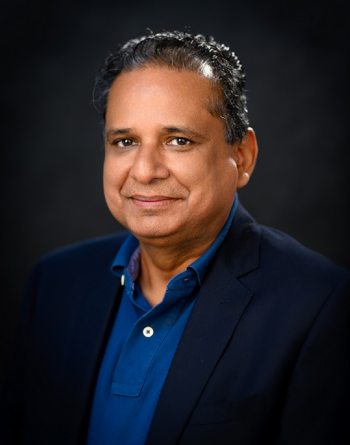
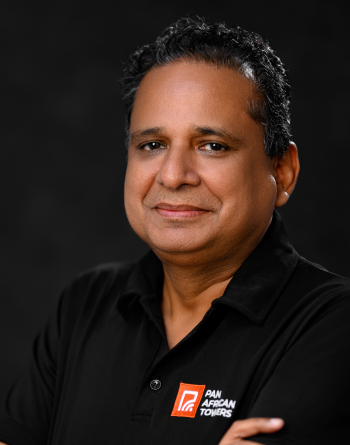
update: changed team images

diff --git a/src/Pages/About/matrix/WhoAreWe.tsx b/src/Pages/About/matrix/WhoAreWe.tsx
@@ -24,6 +24,8 @@ import daniel from "../../../assets/WhoAreWe/teams/daniel.png";
 import marc from "../../../assets/WhoAreWe/teams/marc.png";
 import deisel from "../../../assets/WhoAreWe/teams/deisel.png";
 import gupta from "../../../assets/WhoAreWe/teams/gupta.png";
+import azeez from "../../../assets/WhoAreWe/teams/azeez.png";
+import Ourpeople from "../../../assets/WhoAreWe/teams/Ourpeople.png";
 
 import TeemCard from "../../Reuseable/UI/TeemCard";
 
@@ -278,7 +280,7 @@ function WhoAreWe() {
               id={8}
             />
             <TeemCard
-              image={cardImg1}
+              image={azeez}
               name="Azeez Amida"
               role="MD & CEO"
               fullrole="Managing Director & Chief Executive Officer"
@@ -313,6 +315,15 @@ function WhoAreWe() {
               id={12}
             />
           </div>
+        </section>
+      </section>
+      <section className="containers pb-[3rem]">
+        <div className="text-[1.6rem] pb-[1rem]" style={{ fontFamily: "semibold1" }}>
+        Meet our people
+        </div>
+
+        <section className="flex justify-center">
+          <img src={Ourpeople} alt="" />
         </section>
       </section>
 

diff --git a/src/Pages/News/NewsTemplate.tsx b/src/Pages/News/NewsTemplate.tsx
@@ -26,15 +26,15 @@ function NewsTemplate() {
       content: (
         <div>
           <div>
-            Nigeria’s leading provider of digital infrastructure, Pan African
+            Nigeria's leading provider of digital infrastructure, Pan African
             Towers (PAT), has announced the appointment of Oladipo Badru as its
             new Chief Financial Officer
           </div>
           <div>
-            The appointment comes at a key moment in the company’s growth, with
+            The appointment comes at a key moment in the company's growth, with
             the recent influx of fresh investments from Development Partners
             International (DPI) and Verod Capital to solidify its position as
-            Nigeria’s largest homegrown digital infrastructure provider.
+            Nigeria's largest homegrown digital infrastructure provider.
           </div>
           <div className="py-[2rem]">
             <div>

diff --git a/src/Pages/About/matrix/OurFocus.tsx b/src/Pages/About/matrix/OurFocus.tsx
@@ -77,7 +77,7 @@ function OurFocus() {
         <HeaderNav
           title={"Our focus"}
           headerText={
-            "We are Passionate about Africa and we exist to rewrite thee African connectivity story."
+            "We are Passionate about Africa and we exist to rewrite the African connectivity story."
           }
           text={
             "At Pan African Towers, our focus is to connect people, businesses, and communities through innovative and reliable telecommunications solutions. We believe in the power of communication to transform lives and drive progress. Our mission is to provide seamless connectivity and exceptional service, ensuring that our customers can stay connected anytime, anywhere."

diff --git a/src/Pages/Reuseable/UI/HeaderNav.tsx b/src/Pages/Reuseable/UI/HeaderNav.tsx
@@ -29,8 +29,8 @@ const HeaderNav: React.FC<customProps> = ({
           <div className="flex justify-center items-center text-center" data-aos="fade-up">
             <div className="w-[80%] md:w-[60%] lg:w-[40%] pt-[3rem] pb-[2rem]">
               <div className="text-textColor text-[1.3rem] ps-2">{title}</div>
-              <div className="text-[2rem] pt-2 text-textColor2">{headerText}</div>
-              <div className="text-[.9rem] text-gray-700 pt-[1rem]">
+              <div className="text-[2rem] pt-2 text-textColor2" style={{fontFamily: 'semibold1'}}>{headerText}</div>
+              <div className="text-[1rem] text-gray-700 pt-[1rem]">
                 {text}
               </div>
             </div>

diff --git a/src/Pages/EGS/EGS.tsx b/src/Pages/EGS/EGS.tsx
@@ -27,17 +27,17 @@ function EGS() {
         />
       </div>
 
-      <div
+      {/* <div
         className="flex justify-center md:text-[2rem] text-[1.5rem] pb-[2rem]"
         style={{ fontFamily: "semibold1" }}
       >
         ESG Governance Structure
-      </div>
-      <div className="flex justify-center px-[1rem]">
+      </div> */}
+      {/* <div className="flex justify-center px-[1rem]">
         <div className=" w-[800px]">
           <img src={gram} alt="" className="w-[100%]" />
         </div>
-      </div>
+      </div> */}
 
       <div className="overflow-x-auto">
         <Timelines />

diff --git a/src/Pages/Reuseable/UI/TeemCard.tsx b/src/Pages/Reuseable/UI/TeemCard.tsx
@@ -28,7 +28,7 @@ const TeemCard: React.FC<customProps> = ({
       <CardText>
         <div className=" ps-2 ">
           <div className="flex justify-between items-center w-[100%]">
-            <div className="font-bold text-[1rem]">{name}</div>
+            <div className="text-[1rem]" style={{ fontFamily: "semibold1" }}>{name}</div>
             <div className=" cursor-pointer flex items-center gap-2 text-[.8rem] mt-3 text-textColor">
               <div>View</div>
               <div>

diff --git a/src/index.css b/src/index.css
@@ -47,11 +47,13 @@
 
 html {
   scroll-behavior: smooth;
+  font-family: RegularFont;
 }
 
 
 * {
   scroll-behavior: smooth;
+  font-family: RegularFont;
 }
 
 body {
@@ -179,7 +181,7 @@ body {
 .vertical-timeline-element-content {
   position: relative;
   margin-left: 60px;
-  background: transparent;
+  background: transparent !important;
   border-radius: 0.25em;
   padding: 1em;
   /* -webkit-box-shadow: 0 3px 0 #ddd;

diff --git a/src/Pages/EGS/Timelines.tsx b/src/Pages/EGS/Timelines.tsx
@@ -312,7 +312,7 @@ function Timelines() {
   const [modalHead, setmodalHead] = useState(null);
 
   return (
-    <div className="bg-secback py-[4rem] my-[3rem] ">
+    <div className=" py-[4rem] ">
       <VerticalTimeline>
         {data?.map((e, i) => {
           return (
